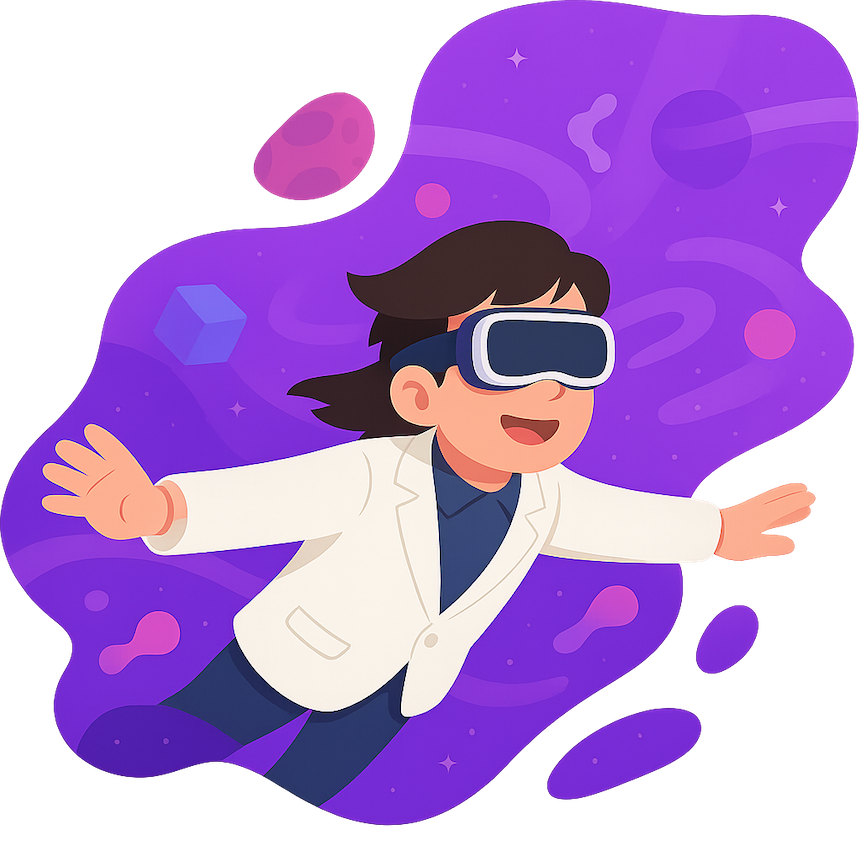
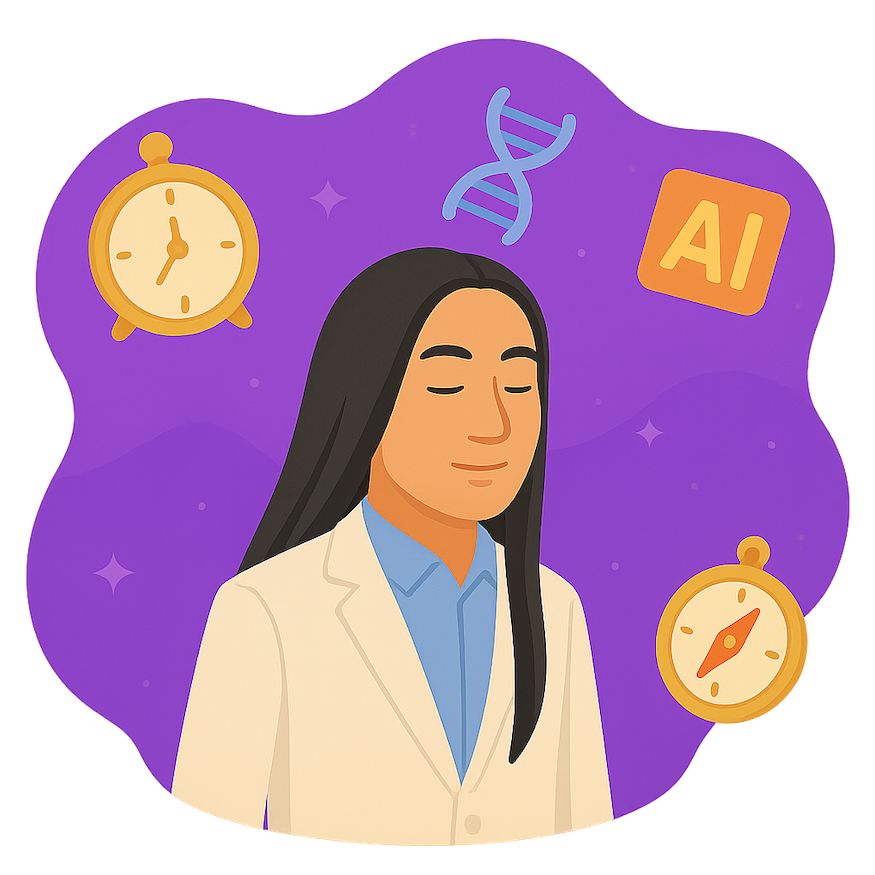
Feat 調整導航列樣式及新增橫幅圖片
暫時移除 Logo 區域的上邊距以改善佈局，適配網站標題展示。
新增多張橫幅右側圖片以提高網站視覺吸引力及品牌識別度。

diff --git a/templates/header.html b/templates/header.html
@@ -39,8 +39,9 @@
       <div class="col-12">
         <nav class="main-nav">
           <!-- ***** Logo Start ***** -->
-          <a href="/" class="logo">
+          <a href="/" class="logo d-flex align-items-center">
             <img src="static/imgs/vf_logo.png" alt="" style="max-width: 60px;">
+            <h1 class="ms-2 fw-bold" style="font-size:1.3rem;letter-spacing:0.1em;color: white;">雙生紫焰</h1>
           </a>
           <!-- ***** Logo End ***** -->
           <!-- ***** Menu Start ***** -->

diff --git a/static/assets/css/templatemo-tale-seo-agency.css b/static/assets/css/templatemo-tale-seo-agency.css
@@ -354,7 +354,7 @@ Header Style
 }
 
 .header-area .main-nav .logo {
-  margin-top: 25px;
+  /* margin-top: 25px; */
   flex-basis: 20%;
   -webkit-transition: all 0.3s ease 0s;
   -moz-transition: all 0.3s ease 0s;
